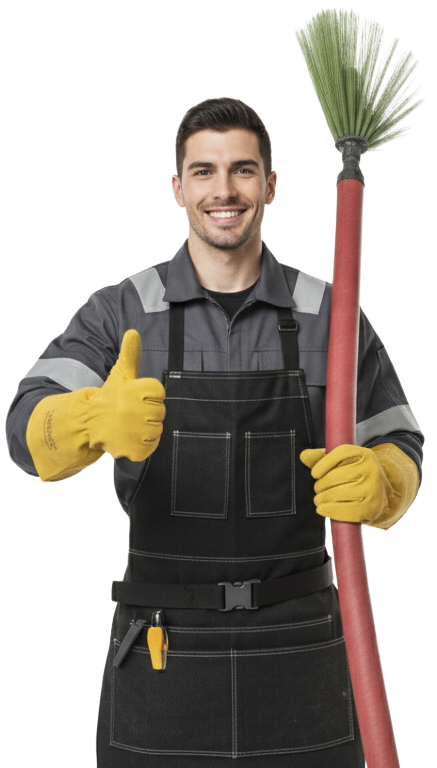
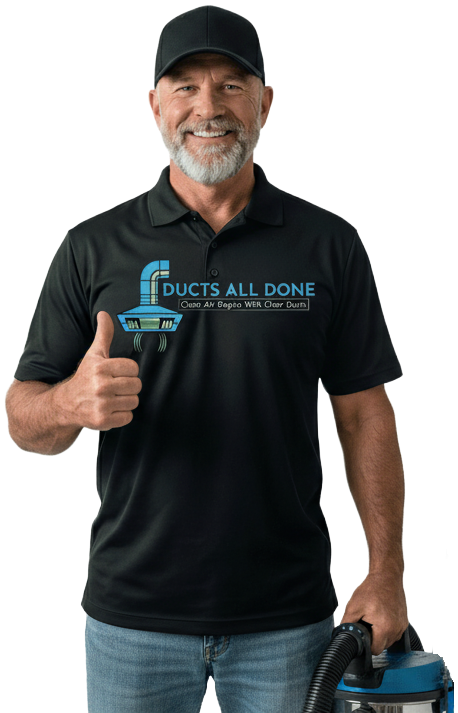
new hero image and update header

diff --git a/src/components/sections/hero-header.tsx b/src/components/sections/hero-header.tsx
@@ -26,7 +26,7 @@ export default function HeroHeader() {
   const [isMobileMenuOpen, setIsMobileMenuOpen] = useState(false);
 
   return (
-    <header id="hero-header" className="absolute top-0 left-0 right-0 z-50">
+    <header id="hero-header" className="fixed top-0 left-0 right-0 z-50 hidden md:block">
       <div className="hidden w-full md:block">
         <div className="rounded-b-[26px] bg-blue-500 text-white shadow-xl shadow-[#0b1f3a]/30">
           <div className="flex items-center gap-4 px-4 py-3 md:px-8 md:py-2">
@@ -127,6 +127,7 @@ export default function HeroHeader() {
         </div>
       </div>
 
+      {/* Mobile Menu Backdrop (Hidden on Desktop) */}
       <div
         className={`fixed inset-0 z-[60] bg-black/45 transition-opacity duration-300 md:hidden ${
           isMobileMenuOpen
@@ -136,6 +137,7 @@ export default function HeroHeader() {
         onClick={() => setIsMobileMenuOpen(false)}
       />
 
+      {/* Mobile Aside Menu (Hidden on Desktop) */}
       <aside
         className={`fixed left-0 top-0 z-[70] h-dvh w-[82%] max-w-[320px] bg-white p-5 shadow-2xl transition-transform duration-300 md:hidden ${
           isMobileMenuOpen ? "translate-x-0" : "-translate-x-full"

diff --git a/src/components/sections/Hero.tsx b/src/components/sections/Hero.tsx
@@ -54,16 +54,7 @@ export default function Hero() {
   return (
     <section id="home" className="relative min-h-screen overflow-hidden bg-[#0b1f3a]">
       <HeroHeader />
-      <div
-        aria-hidden={!showStickyHeader}
-        className={`fixed inset-x-0 top-0 z-[70] transform transition-all duration-300 ease-out ${
-          showStickyHeader
-            ? "pointer-events-auto translate-y-0 opacity-100"
-            : "pointer-events-none -translate-y-3 opacity-0"
-        }`}
-      >
-        <Header />
-      </div>
+      <Header />
       {/* Right-side background image */}
       <div className="absolute right-0 top-0 w-[55%] h-full hidden md:block">
         <Image

diff --git a/src/components/sections/Header.tsx b/src/components/sections/Header.tsx
@@ -16,7 +16,7 @@ export default function Header() {
   const [isMobileMenuOpen, setIsMobileMenuOpen] = useState(false);
 
   return (
-    <header className="px-3 pt-3 md:px-6 md:pt-4">
+    <header className="fixed top-0 left-0 right-0 z-50 px-3 pt-3 md:hidden">
       <nav className="mx-auto flex w-full max-w-[1200px] items-center justify-between gap-3 rounded-2xl bg-white px-4 py-3 shadow-lg shadow-[#0b1f3a]/20 md:rounded-full md:px-6 md:py-3.5">
         <a href="#" className="shrink-0">
           <Image
